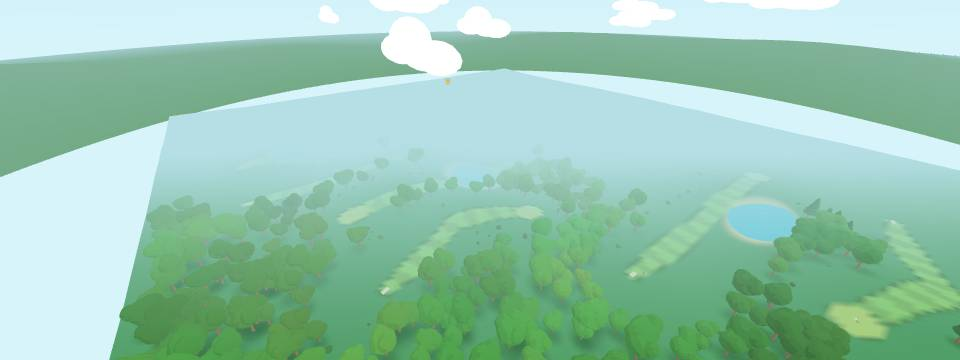
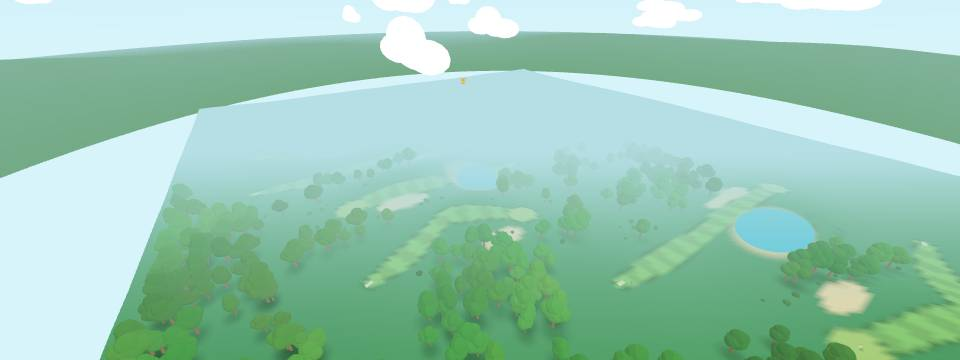
feat(world): shape toon fairways with shared collision terrain and readable slopes

diff --git a/src/course.js b/src/course.js
@@ -152,7 +152,25 @@ export function buildCourse(scene, renderer, { course: def = COURSES[0], quality
   const group = new THREE.Group(); scene.add(group);
 
   // --- height field ---
-  const baseH = (x, z) => def.hills * (2.2 * noise(x / 70 + 100, z / 70 + 100) + 0.9 * noise(x / 24 + 50, z / 24 + 50) + 3.5 * noise(x / 230 + 7, z / 230 + 7) - 3.3);
+  // Authored broad landforms live in the same height function used by terrain vertices,
+  // lies, normals, pond levels and disc collisions. This is real course elevation.
+  const landforms = holes.map(h => {
+    const dx=h.basket[0]-h.tee[0], dz=h.basket[1]-h.tee[1], length=Math.hypot(dx,dz);
+    return { x:h.tee[0],z:h.tee[1],dx:dx/length,dz:dz/length,length,side:h.idx%2?-1:1 };
+  });
+  const landformGain=def.id==='meadow'?1.1:def.id==='lake'?.75:1;
+  const baseH = (x, z) => {
+    let relief=0;
+    for(const f of landforms) {
+      const px=x-f.x,pz=z-f.z,along=px*f.dx+pz*f.dz,across=-px*f.dz+pz*f.dx;
+      const ridge=((along-f.length*.79)/(f.length*.32))**2+((across-f.side*7)/30)**2;
+      const hollow=((along-f.length*.27)/(f.length*.23))**2+(across/25)**2;
+      const shoulder=((along-f.length*.55)/(f.length*.29))**2+((across-f.side*15)/13)**2;
+      const swale=((along-f.length*.61)/(f.length*.29))**2+((across+f.side*12)/10)**2;
+      relief+=6.4*Math.exp(-ridge)-1.8*Math.exp(-hollow)+3.8*Math.exp(-shoulder)-2.3*Math.exp(-swale);
+    }
+    return relief*landformGain+def.hills*(2.2*noise(x/70+100,z/70+100)+.9*noise(x/24+50,z/24+50)+3.5*noise(x/230+7,z/230+7)-3.3);
+  };
   for (const p of ponds) p.level = baseH(p.x, p.z) - 0.3;
   const flats = holes.flatMap(h => [h.tee, h.basket]).map(p => ({ x: p[0], z: p[1], h: baseH(p[0], p[1]) }));
   const height = (x, z) => {
@@ -177,15 +195,38 @@ export function buildCourse(scene, renderer, { course: def = COURSES[0], quality
   const splats = new Float32Array(geo.attributes.position.count * 2);
   const pos = geo.attributes.position, colors = new Float32Array(pos.count * 3);
   const cFair = new THREE.Color(def.grass[0]), cRough = new THREE.Color(def.grass[1]), cDark = new THREE.Color(def.grass[2]), cSand = new THREE.Color(def.grass[3]), tmp = new THREE.Color();
+  const cCollar=new THREE.Color('#397c36'), cGreen=new THREE.Color('#afd66a'), cFringe=new THREE.Color('#357b36'), cut=new THREE.Color();
   for (let i = 0; i < pos.count; i++) {
     const x = pos.getX(i), z = pos.getZ(i), y = height(x, z); pos.setY(i, y);
     const fi = fairwayInfo(holes, x, z);
     const n1 = noise(x / 9 + 3, z / 9 + 3), n2 = noise(x / 40 + 9, z / 40 + 9);
-    // Broad bands stay legible on a phone; no photographic grit or muddy dirt splat.
-    const edge = fi.d + (n2 - .5) * 1.2;
-    tmp.copy(cFair).lerp(cRough, smooth(6 * def.fairwayW, 9 * def.fairwayW, edge)).lerp(cDark, smooth(20, 44, fi.d) * .35);
-    const stripe = Math.floor(fi.t * (fi.hole?.len || 90) / 6) % 2;
-    if (edge < 7 * def.fairwayW) tmp.multiplyScalar(stripe ? .94 : 1.04);
+    // Scalloped fairway, a dark first-cut collar and an isolated putting green form a
+    // readable route even when the phone camera sees very little lateral ground.
+    const phase = fi.t * Math.PI * 4;
+    const width = (2.0 + smooth(.06,.22,fi.t) * 1.7 + Math.sin(phase - .6) * .6 + Math.sin(phase * 1.8) * .25) * def.fairwayW;
+    const edge = fi.d + (n2 - .5) * .8;
+    const fair = 1 - smooth(width, width + .55, edge);
+    const collar = 1 - smooth(width + 1.05, width + 1.8, edge);
+    tmp.copy(cRough).lerp(cDark, .12 + n2 * .18);
+    tmp.lerp(cCollar, collar);
+    const stripe = Math.floor(fi.t * (fi.hole?.len || 90) / 5) % 2;
+    cut.copy(cFair).multiplyScalar(stripe ? .84 : 1.13);
+    tmp.lerp(cut, fair);
+    if(fi.hole) {
+      const bx=x-fi.hole.basket[0], bz=z-fi.hole.basket[1], green=Math.hypot(bx,bz*.88);
+      const greenMask=1-smooth(5.7,6.25,green);
+      tmp.lerp(cGreen,greenMask);
+      const fringe=smooth(5.7,6.1,green)*(1-smooth(6.5,7.25,green));
+      tmp.lerp(cFringe,fringe*.8);
+      // Broad exposed pale earth on the low shoulder describes the landing-area shape.
+      // It is a visual soil bank, not a new hazard or separate collision surface.
+      const dx=fi.hole.basket[0]-fi.hole.tee[0],dz=fi.hole.basket[1]-fi.hole.tee[1],length=Math.hypot(dx,dz);
+      const px=x-fi.hole.tee[0],pz=z-fi.hole.tee[1],along=(px*dx+pz*dz)/length,across=(-px*dz+pz*dx)/length;
+      const side=fi.hole.idx%2?-1:1;
+      const soil=((along-length*.76)/(length*.14))**2+((across+side*8.8)/(4.8+Math.sin(along*.19)*.8))**2;
+      const soilMask=(1-smooth(.72,1.08,soil))*smooth(width+.35,width+1.2,edge);
+      tmp.lerp(cSand,soilMask*.96);
+    }
     for (const p of ponds) { const e = ((x - p.x) / p.rx) ** 2 + ((z - p.z) / p.rz) ** 2; if (e < 2.2) tmp.lerp(cSand, smooth(2.2, 1.1, e) * 0.7); }
     splats[i*2] = smooth(4, 0, fi.d) * smooth(.1, .3, fi.t) * (1-smooth(.7,.95,fi.t)) * .42;
     for (const p of ponds) { const e=((x-p.x)/p.rx)**2+((z-p.z)/p.rz)**2; splats[i*2+1]=Math.max(splats[i*2+1],smooth(2.2,1.25,e)); }
@@ -193,8 +234,37 @@ export function buildCourse(scene, renderer, { course: def = COURSES[0], quality
     colors[i * 3] = tmp.r; colors[i * 3 + 1] = tmp.g; colors[i * 3 + 2] = tmp.b;
   }
   geo.setAttribute('color', new THREE.BufferAttribute(colors, 3)); geo.computeVertexNormals();
+  // Broad terrain normals otherwise fall inside one toon band. Bake a six-value
+  // directional ramp into the vertex colours so shoulders and swales stay readable.
+  // No texture, screen-space occlusion, extra pass, or collision approximation.
+  const terrainNormals=geo.attributes.normal;
+  for(let i=0;i<pos.count;i++) {
+    const light=terrainNormals.getX(i)*.55+terrainNormals.getY(i)*.70+terrainNormals.getZ(i)*.45;
+    const band=Math.round(smooth(.28,.90,light)*5)/5;
+    const gain=.40+band*.85;
+    colors[i*3]*=gain;colors[i*3+1]*=gain;colors[i*3+2]*=gain;
+  }
   const terrain = new THREE.Mesh(geo, toonMaterial({ vertexColors: true }));
   terrain.receiveShadow = true; group.add(terrain);
+
+  // Non-playable distant hills break the horizon into broad asymmetric layers. Their
+  // inner edge is outside every in-bounds point; the playable height field is untouched.
+  const hillPositions=[], hillColors=[], hillIndices=[], hillSegments=96;
+  const hillPalette=['#74aa86','#81b39b','#a1cbcb'].map(c=>new THREE.Color(c));
+  for(let ring=0;ring<3;ring++) for(let i=0;i<=hillSegments;i++) {
+    const angle=i/hillSegments*Math.PI*2;
+    const ridge=28+Math.sin(angle*3+.7)*15+Math.sin(angle*7-1.2)*6;
+    const radius=[350,505+Math.sin(angle*4)*25,850][ring];
+    const y=ring===0?-8:ring===1?ridge:10;
+    hillPositions.push(Math.cos(angle)*radius,y,Math.sin(angle)*radius);
+    const color=hillPalette[ring];hillColors.push(color.r,color.g,color.b);
+  }
+  for(let ring=0;ring<2;ring++) for(let i=0;i<hillSegments;i++) {
+    const a=ring*(hillSegments+1)+i,b=a+hillSegments+1;hillIndices.push(a,a+1,b,b,a+1,b+1);
+  }
+  const hillGeometry=new THREE.BufferGeometry();hillGeometry.setAttribute('position',new THREE.Float32BufferAttribute(hillPositions,3));
+  hillGeometry.setAttribute('color',new THREE.Float32BufferAttribute(hillColors,3));hillGeometry.setIndex(hillIndices);
+  group.add(new THREE.Mesh(hillGeometry,new THREE.MeshBasicMaterial({vertexColors:true,fog:false,side:THREE.DoubleSide})));
 
   // --- trees ---
   const trees = [], bushes = [], tufts = [];
@@ -204,12 +274,21 @@ export function buildCourse(scene, renderer, { course: def = COURSES[0], quality
     const fi = fairwayInfo(holes, x, z);
     const halfW = (7.5 + noise(x / 30, z / 30) * 5) * def.fairwayW;
     let skip = fi.d < halfW;
+    const route=fi.hole, routeDx=route.basket[0]-route.tee[0], routeDz=route.basket[1]-route.tee[1];
+    const side=((x-route.tee[0])*-routeDz+(z-route.tee[1])*routeDx)/Math.hypot(routeDx,routeDz);
+    // Each tee opens on one side into a broad clearing. The other side retains a
+    // guardian grove; trees and their collision records are generated together below.
+    const openSide=route.idx%2?-1:1;
+    const clearing=smooth(.78,.51,fi.t)*smooth(halfW+28,halfW+4,fi.d);
+    if(side*openSide>0 && clearing>.22) skip=true;
+    if(fi.t<.16 && fi.d<halfW+15) skip=true;
     for (const p of ponds) if (((x - p.x) / p.rx) ** 2 + ((z - p.z) / p.rz) ** 2 < 1.9) skip = true;
     for (const f of flats) if (Math.hypot(x - f.x, z - f.z) < 7) skip = true;
     const edge = Math.min(W / 2 - Math.abs(x), H / 2 - Math.abs(z));
-    const prob = edge < 25 ? 0.85 : (fi.d < halfW + 8 ? 0.14 : 0.62) * def.trees;
+    const grove=.12+1.35*smooth(.32,.70,noise(x/21+3,z/21+11));
+    const prob = edge < 25 ? 0.85 : (fi.d < halfW + 8 ? 0.14 : 0.62) * def.trees * grove;
     if (!skip && rng() < prob) {
-      const s = 0.8 + rng() * 0.55, pine = noise(x / 90 + 500, z / 90 + 500) > 1 - def.pine;
+      const s = 0.8 + rng() * 0.55, guardian=side*openSide<0 && fi.t>.18 && fi.t<.52 && fi.d<halfW+12, pine = !guardian && noise(x / 90 + 500, z / 90 + 500) > 1 - def.pine;
       const y = height(x, z), rot = rng() * Math.PI * 2;
       (pine ? pineSpots : decSpots).push({ x, y, z, s, rot });
       trees.push(pine ? { x, y, z, r: 0.3 * s, h: 6 * s, fy: 7 * s, fr: 2.3 * s } : { x, y, z, r: 0.34 * s, h: 4 * s, fy: 5.8 * s, fr: 3.4 * s });
@@ -231,7 +310,15 @@ export function buildCourse(scene, renderer, { course: def = COURSES[0], quality
 
   const trunkMat = toonMaterial({ color: '#986541' });
   const leafMat = windMaterial(toonMaterial({ color: '#ffffff' }), windClock);
-  const blob = (r, detail, amp) => { const g = new THREE.IcosahedronGeometry(r, detail); const p = g.attributes.position; for (let i = 0; i < p.count; i++) { const x = p.getX(i), y = p.getY(i), z = p.getZ(i); const k = 1 + (noise(x * 1.3 + 40, y * 1.3 + z * 0.7 + 40) - 0.5) * amp; p.setXYZ(i, x * k, y * k, z * k); } g.computeVertexNormals(); return g; };
+  const blob = (r, detail, amp) => {
+    // Indexed round surfaces retain smooth vertex normals after the contour is shaped.
+    const g=new THREE.SphereGeometry(r,detail===1?12:18,detail===1?7:12),p=g.attributes.position;
+    for(let i=0;i<p.count;i++) {
+      const x=p.getX(i),y=p.getY(i),z=p.getZ(i),k=1+(noise(x*1.3+40,y*1.3+z*.7+40)-.5)*amp;
+      p.setXYZ(i,x*k,y*k,z*k);
+    }
+    g.computeVertexNormals();return g;
+  };
   const shift = (g, x, y, z) => g.translate(x, y, z);
   const pineTrunk = shift(new THREE.CylinderGeometry(0.16, 0.34, 6, 7), 0, 3, 0);
   // One gently scalloped crown replaces three identical geometric cone tiers.
@@ -246,9 +333,20 @@ export function buildCourse(scene, renderer, { course: def = COURSES[0], quality
     crownPos.setXYZ(i,x*shape,y,z*shape);
   }
   pineLeaf.computeVertexNormals();
+  const pineVariants = [pineLeaf];
+  for(let variant=1;variant<3;variant++) {
+    const crown=pineLeaf.clone(), p=crown.attributes.position;
+    for(let i=0;i<p.count;i++) {
+      const x=p.getX(i), y=p.getY(i), z=p.getZ(i), a=Math.atan2(z,x);
+      // Only inset the crown; never enlarge the existing obstacle envelope.
+      const inset=.90+.1*Math.sin(y*(variant===1?1.9:1.25)+a*variant)**2;
+      p.setXYZ(i,x*inset,y,z*(variant===1?.94:1));
+    }
+    crown.computeVertexNormals();pineVariants.push(crown);
+  }
   const decTrunk = mergeGeometries([shift(new THREE.CylinderGeometry(0.2, 0.4, 4.2, 7), 0, 2.1, 0), shift(new THREE.CylinderGeometry(0.08, 0.16, 2.6, 5).rotateZ(0.6), 0.9, 4.2, 0.2), shift(new THREE.CylinderGeometry(0.08, 0.16, 2.4, 5).rotateZ(-0.7).rotateY(1.2), -0.8, 4.1, -0.4)]);
   const bd = quality === 'low' ? 1 : 2;   // ponytail: blob detail is the main triangle cost on phones
-  const decLeaf = mergeGeometries([shift(blob(3.3, bd, 0.12).scale(1, 0.85, 1), 0, 5.8, 0), shift(blob(2.2, bd, 0.12), 1.6, 6.9, 1.0), shift(blob(2.0, bd, 0.12), -1.5, 6.5, -1.2)]);
+  const decLeaf = mergeGeometries([shift(blob(2.6, bd, .10).scale(1,.88,1),0,5.45,0),shift(blob(2.15,bd,.10),.2,7.05,.1),shift(blob(1.9,bd,.10),1.65,5.9,.6),shift(blob(1.85,bd,.10),-1.65,5.8,-.6)]);
   const bushGeo = blob(1, 1, 0.6).scale(1, 0.75, 1).translate(0, 0.5, 0);
   const m = new THREE.Matrix4(), q = new THREE.Quaternion(), e = new THREE.Euler(), v = new THREE.Vector3(), sc = new THREE.Vector3();
   const inst = (geo, mat, spots, colorFn, shadow = true) => {
@@ -273,11 +371,11 @@ export function buildCourse(scene, renderer, { course: def = COURSES[0], quality
   };
   if (!importedInstances('pine', pineSpots)) {
     inst(pineTrunk, trunkMat, pineSpots, null, false);
-    inst(pineLeaf, leafMat, pineSpots, s => col.setHSL(0.33 + (noise(s.x, s.z) - 0.5) * 0.06, 0.48, 0.29 + noise(s.z, s.x) * 0.10, THREE.SRGBColorSpace));
+    for(let variant=0;variant<3;variant++) inst(pineVariants[variant], leafMat, pineSpots.filter(s=>Math.floor(noise(s.x*.37+13,s.z*.37+5)*3)===variant), s => col.setHSL(.32 + noise(s.x/24,s.z/24)*.045, .42 + noise(s.x/31+5,s.z/31)*.12, .25 + noise(s.x/22,s.z/22)*.16, THREE.SRGBColorSpace));
   }
   if (!importedInstances('deciduous', decSpots)) {
     inst(decTrunk, trunkMat, decSpots, null, false);
-    inst(decLeaf, leafMat, decSpots, s => col.setHSL(def.leafHue + (noise(s.x + 9, s.z) - 0.5) * 0.045, 0.53, 0.34 + noise(s.z + 4, s.x) * 0.11, THREE.SRGBColorSpace));
+    inst(decLeaf, leafMat, decSpots, s => col.setHSL(def.leafHue + (noise(s.x/22 + 9, s.z/22) - 0.5) * 0.07, 0.5, 0.30 + noise(s.z/24 + 4, s.x/24) * 0.18, THREE.SRGBColorSpace));
   }
   if (!importedInstances('bush', bushes, false)) inst(bushGeo, leafMat, bushes, s => col.setHSL(0.3 + (noise(s.x + 2, s.z + 2) - 0.5) * 0.08, 0.5, 0.25 + noise(s.z, s.x + 7) * 0.1, THREE.SRGBColorSpace), false);
   // Fine crossed-alpha grass is deliberately retired in both modes.
@@ -301,7 +399,7 @@ export function buildCourse(scene, renderer, { course: def = COURSES[0], quality
   const metal = toonMaterial({ color: '#e5f3f3' });
   const yellow = toonMaterial({ color: '#ffca26' });
   const basketGeo = makeBasketGeometry();
-  const baskets = [];
+  const baskets = [], destinationMarkers = [];
   for (const h of holes) {
     const yaw = Math.atan2(-(h.way[1][0] - h.tee[0]), -(h.way[1][1] - h.tee[1]));
     const pad = new THREE.Mesh(new THREE.BoxGeometry(1.6, 0.14, 3.2), concrete);
@@ -321,6 +419,16 @@ export function buildCourse(scene, renderer, { course: def = COURSES[0], quality
     flag.position.set(0, 1.62, 0); flag.rotation.y = yaw; b.add(flag);
     const base = new THREE.Mesh(new THREE.CylinderGeometry(0.22, 0.26, 0.06, 12), concrete); base.position.y = 0.03; b.add(base);
     group.add(b); baskets.push(b);
+    // A graphic flag remains readable from the tee without enlarging the physical basket.
+    const markerCanvas=document.createElement('canvas');markerCanvas.width=128;markerCanvas.height=160;
+    const ink=markerCanvas.getContext('2d');ink.fillStyle='#ffffff';ink.beginPath();ink.arc(64,62,55,0,Math.PI*2);ink.fill();
+    ink.fillStyle='#ffc928';ink.beginPath();ink.arc(64,62,47,0,Math.PI*2);ink.fill();
+    ink.beginPath();ink.moveTo(43,105);ink.lineTo(85,105);ink.lineTo(64,143);ink.fill();
+    ink.fillStyle='#174b58';ink.font='900 61px system-ui';ink.textAlign='center';ink.textBaseline='middle';ink.fillText(String(h.idx+1),64,64);
+    const markerMap=new THREE.CanvasTexture(markerCanvas);markerMap.colorSpace=THREE.SRGBColorSpace;
+    const destination=new THREE.Sprite(new THREE.SpriteMaterial({map:markerMap,depthWrite:false,fog:false}));
+    destination.position.set(h.basket[0],h.basketY+4,h.basket[1]);destination.scale.set(2,2.5,1);destination.visible=false;
+    group.add(destination);destinationMarkers.push(destination);
     void yellow;
   }
 
@@ -377,9 +485,14 @@ export function buildCourse(scene, renderer, { course: def = COURSES[0], quality
     shadowParts.forEach(g => g.dispose());
   }
   const world = { height, normal, treesNear, inWater, waterLevel, inBounds, wind: [0, 0], basket: null, ponds, holes };
-  const setHole = i => { const h = holes[i]; world.basket = { x: h.basket[0], y: h.basketY, z: h.basket[1] }; };
+  const setHole = i => { const h = holes[i]; world.basket = { x: h.basket[0], y: h.basketY, z: h.basket[1] }; destinationMarkers.forEach((m,j)=>m.visible=j===i); };
   const update = (dt, t, focus, view) => {
     if(view && t-lastCull>.25){lastCull=t;for(const c of clusters){const p=c.boundingSphere.center;const r=c.boundingSphere.radius+155;c.visible=(p.x-view.x)**2+(p.z-view.z)**2<r*r;}}
+    if(view) for(const marker of destinationMarkers) if(marker.visible) {
+      const distance=Math.hypot(view.x-marker.position.x,view.z-marker.position.z), size=clamp(distance*.065,1.2,7);
+      marker.scale.set(size,size*1.25,1);marker.material.opacity=smooth(7,17,distance);
+      marker.position.y=height(marker.position.x,marker.position.z)+2.7+size*.6;
+    }
     windClock.value=t; cloudGroup.position.x = Math.sin(t * .006) * 5;
     if (focus) { sun.target.position.copy(focus); sun.position.copy(focus).addScaledVector(sunDir, 180); }
   };
@@ -389,7 +502,7 @@ export function buildCourse(scene, renderer, { course: def = COURSES[0], quality
     group.traverse(o => { o.customDepthMaterial?.dispose(); if (!o.geometry?.__shared) o.geometry?.dispose(); for (const m of [].concat(o.material || [])) { if (m.__shared) continue; for (const k of ['map', 'normalMap', 'roughnessMap']) if (m[k] && !m[k].__shared) m[k].dispose(); m.dispose(); } });
     sky.geometry.dispose(); sky.material.dispose(); sun.shadow.map?.dispose();
   };
-  return { def, quality, world, holes, group, terrain, update, setHole, sunDir, baskets, dispose };
+  return { def, quality, world, holes, group, sky, terrain, update, setHole, sunDir, baskets, dispose };
 }
 
 function makeBasketGeometry() {

diff --git a/docs/qa/18-world-report.md b/docs/qa/18-world-report.md
@@ -1,0 +1,38 @@
+# World art revision
+
+## Visual evidence
+
+- Before: [08-hud-430.png](08-hud-430.png).
+- After, portrait: [18-hud-430.png](18-hud-430.png).
+- After, landscape: [18-hud-812.png](18-hud-812.png).
+- Independent criticism: [critic-landform-hud.md](critic-landform-hud.md) and [critic-world-last.md](critic-world-last.md). Both prefer the reference world. No reference win is claimed.
+
+The final scene uses a toon palette, a shaped and striped fairway, dark rough collars, a light destination green, a pale soil bank, an active-hole number marker, soft ground shadows, a gradient sky, and cartoon clouds. Photographic terrain textures, HDRI lighting, SSAO, and bloom are absent from the default look.
+
+A subsequent lighting refinement bakes a six-value directional ramp from the terrain's vertex normals into its colors, helping adjacent slopes separate without additional textures or rendering passes. See [19-hud-430.png](19-hud-430.png). It changes no geometry or collision data.
+
+## Intentional geometry changes
+
+The playable terrain **has changed**, rather than only its materials. Each hole contributes a broad ridge near 79% of its route, a hollow near 27%, an asymmetric shoulder near 55%, and a shallow swale near 61%. Their nominal contributions are +6.4 m, −1.8 m, +3.8 m, and −2.3 m, blended spatially and scaled by course. Contributions overlap, so these values are not measured elevations at individual points.
+
+Near tees, both sides open into wider clearings. A longer clearing on one side contrasts with a deciduous guardian group on the other. Spatially varying tree density breaks the continuous rows. Tree locations, species, and counts therefore changed intentionally. Tee/basket endpoints, nine-hole layouts, physics infrastructure, network messages, and storage contracts were retained. The pale soil bank is visual terrain color, not a new gameplay hazard.
+
+Terrain vertices, lies, surface normals, pond levels, tree bases, and collision queries derive from the same shared height function. The terrain mesh samples that function on its existing grid; its triangles interpolate between samples. Tree meshes and collision records are created together from the same placement and species branches. This preserves their shared position/base-height contract; the existing simplified collider shapes remain approximations of the visual crowns. Distant decorative hills sit outside the playable bounds.
+
+## Validation
+
+`node --check src/course.js` and `node --test test/physics.test.mjs` passed after the final production edits.
+
+An additional independent Node probe evaluated the current source's height and tree-placement functions. It sampled each hole's straight tee-to-basket line at 21 points and simulated backhand driver throws at 60% and 90% power from every tee: **54 drives across 27 holes**, with generated tree collisions enabled. The probe used a local tree-neighborhood filter rather than the runtime spatial index. Every simulated result had finite resting coordinates and distance; sampled heights and normals were finite.
+
+| Course | Drives | Generated trees | Sampled non-water route slope, maximum |
+|---|---:|---:|---:|
+| Pine Hollow | 18 | 3,154 | 0.56 |
+| Cedar Meadows | 18 | 1,392 | 0.51 |
+| Lakeshore Links | 18 | 2,444 | 0.37 |
+
+Slope is rise/run, calculated from the surface normal. These are sampled maxima along the straight routes, not exhaustive maxima across the courses. Collider count equaled the sum of pine and deciduous instance counts for every course. Every generated tree's base elevation exactly equaled `height(tree.x, tree.z)`.
+
+## Limits and remaining review
+
+The after captures show an obvious uphill approach, asymmetric shoulder, and pale bank. Repeated stylized pine silhouettes and broad areas of simple color remain visible; the geometry revision does not establish Nintendo-level visual polish. The probes establish numerical and placement consistency, not that every hole is optimally balanced or reachable by every throw. Full visual, round-play, and six-viewport QA remain integration checks. Physical Android and iPhone frame rates are still owed.

diff --git a/docs/qa/critic-world-last.md b/docs/qa/critic-world-last.md
@@ -1,0 +1,9 @@
+# Blind world critique
+
+**Stronger world: B.** It more convincingly delivers the bright, welcoming sports-resort setting. The rolling fairway, sunlit grass, tree shadows, varied tree silhouettes, and distant haze create a continuous playable landscape with clear depth. It feels closer to a finished console sports game.
+
+A is readable and cheerful, but its broad, nearly uniform green surfaces and repeated angular trees make the environment feel like an early low-poly prototype. The lighter fairway stripes help direction, yet do little to suggest terrain or lighting.
+
+**Single biggest remaining gap: convincing ground depth and lighting in A.** The ground occupies most of the world view, so its flat shading dominates the impression. Gentle land contours with coherent sunlit and shaded areas would make the course feel like a physical place. This matters more than adding extra props or interface polish.
+
+**Comparison limit:** Both views are 430 pixels wide, but B is taller and has much less HUD coverage. A therefore gets substantially less unobstructed landscape space, which disadvantages its sense of scale and immersion. Even allowing for that difference, B's visible terrain and lighting are stronger.
